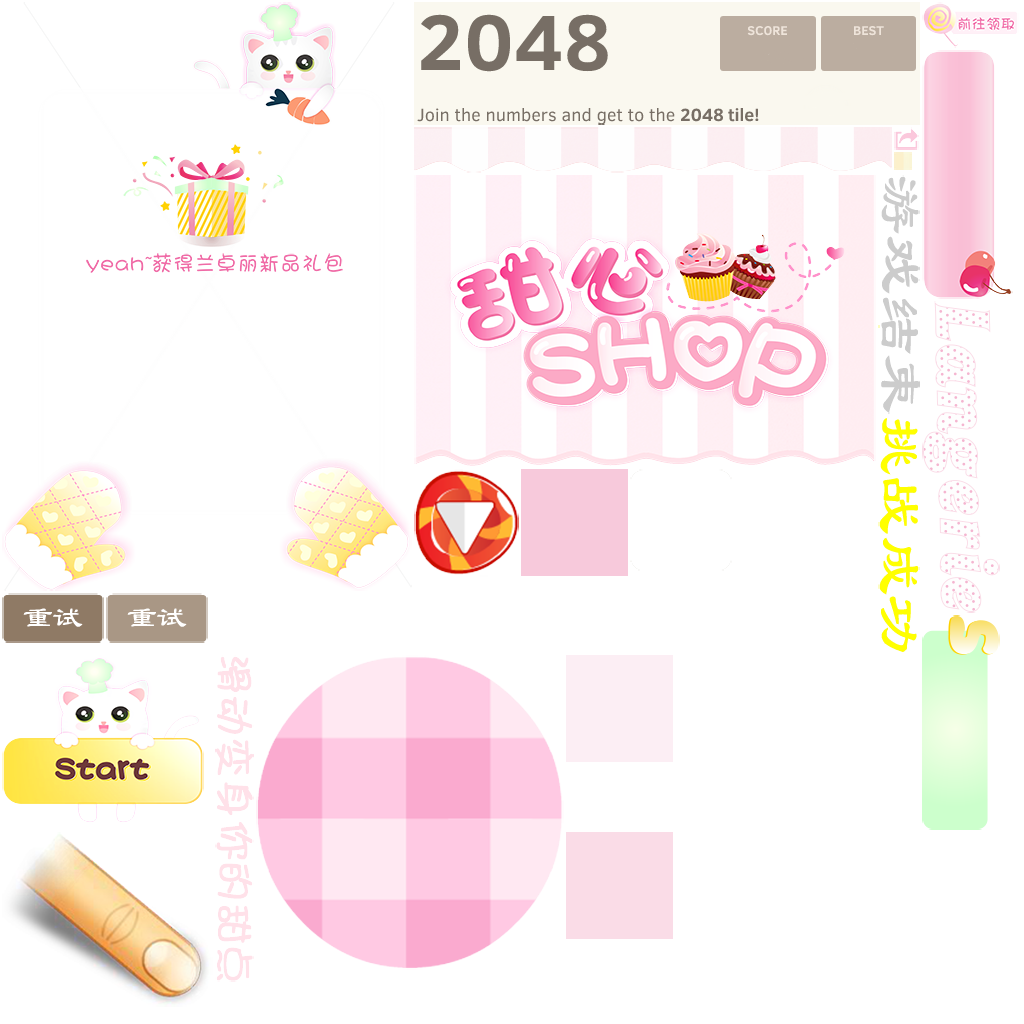
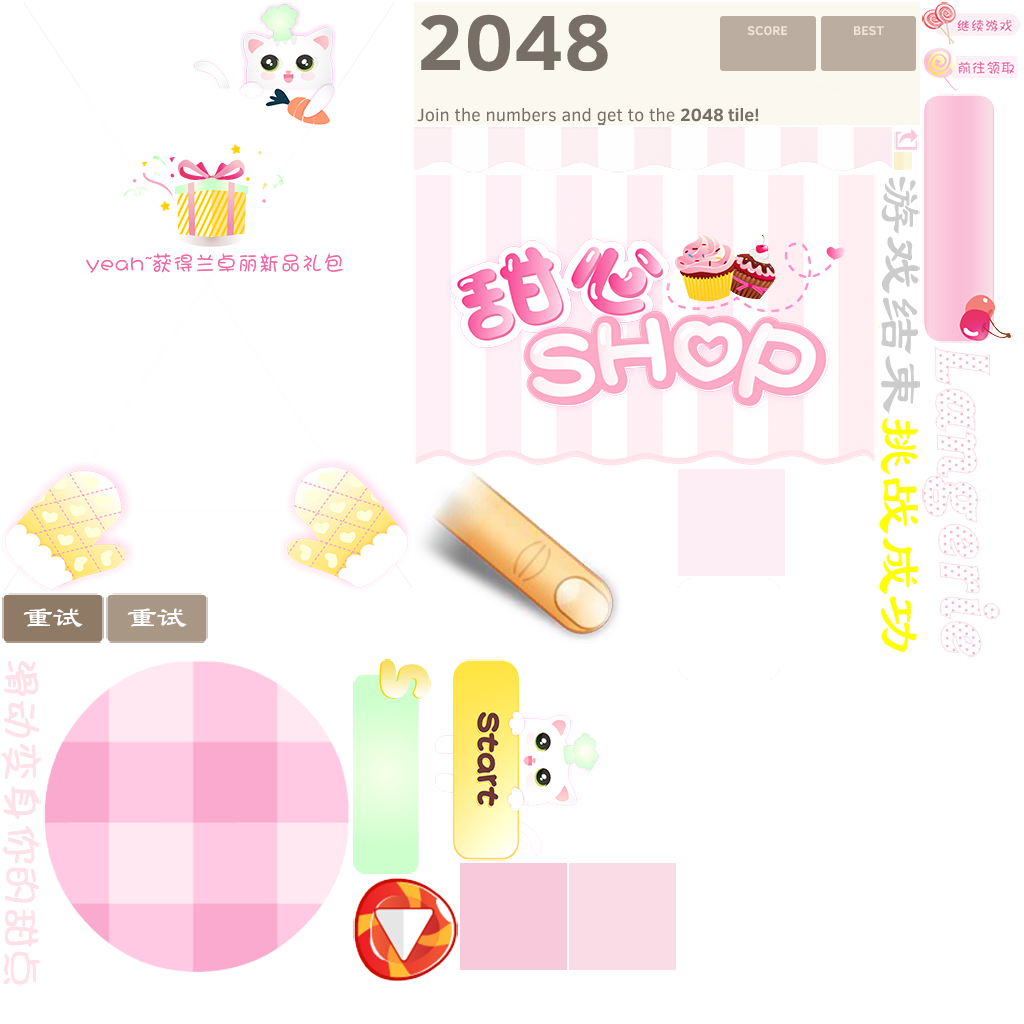
接入微信卡券完成 正式版发布

diff --git a/langerieSweetGame/src/gamePlay/layer/ResultLayer.js b/langerieSweetGame/src/gamePlay/layer/ResultLayer.js
@@ -85,18 +85,30 @@ var ResultLayer = cc.Layer.extend({
             y: scorebg.getPositionY()-scorebg.getContentSize().height/2-btnGetPrize.getContentSize().height/2-40*GC.wscale
         });
 
-        var btnShare = new cc.MenuItemImage("#btn_result_share.png","#btn_result_share.png",this.onShareResult, this);
-        btnShare.attr({
-            x: btnGetPrize.getPositionX()+btnGetPrize.getContentSize().width/2+btnShare.getContentSize().width/2+20,
-            y: btnGetPrize.getPositionY()
-        });
+        var haveReturnGame=GC.currentTargetCardValueIndex<3;
+        if(haveReturnGame) {
+            var btnReturnGame = new cc.MenuItemImage("#btn_return_game.png", "#btn_return_game.png", this.onReturnGame, this);
+            btnReturnGame.attr({
+                x: btnGetPrize.getPositionX() + btnGetPrize.getContentSize().width / 2 + btnReturnGame.getContentSize().width / 2 + 10,
+                y: btnGetPrize.getPositionY() + 3
+            });
+            var menu = cc.Menu.create(btnGetPrize,btnReturnGame);
+        }else{
+            var menu = cc.Menu.create(btnGetPrize);
+        }
 
 
-        var menu = cc.Menu.create(btnGetPrize,btnShare);
+
+        //var btnShare = new cc.MenuItemImage("#btn_result_share.png","#btn_result_share.png",this.onShareResult, this);
+        //btnShare.attr({
+        //    x: btnReturnGame.getPositionX()+btnReturnGame.getContentSize().width/2+btnShare.getContentSize().width/2+20,
+        //    y: btnReturnGame.getPositionY()
+        //});
         menu.attr({
             x:0,y:0
         });
         this.addChild(menu);
+        GC.aa=btnReturnGame;
     },
 
     onStartGame:function (pSender) {
@@ -105,15 +117,32 @@ var ResultLayer = cc.Layer.extend({
         cc.director.runScene(new cc.TransitionFade(1.2, scene));
     },
 
+    onReturnGame:function (pSender) {
+        console.log("onReturnGame");
+        cc.audioEngine.playEffect(res.audio_UI_Click);
+        this.removeFromParent();
+        if(this.gpTouchLayer){
+            this.gpTouchLayer.onReturnGame();
+        }
+    },
+
     onGetPrize:function (pSender) {
         console.log("onGetPrize");
         cc.audioEngine.playEffect(res.audio_UI_Click);
+        if(GC.currentTargetCardValueIndex<=0){
+            alert("未达到获取奖励的条件");
+        }else{
+            location.href="http://weixin.maniform.cn/wei/plt/wengine/index.php?s=/addon/LangerieCard1/LangerieCardPublic/lanSweetGamePrize/id/110/mpid/110/prize/"+(GC.currentTargetCardValueIndex)+'.html';
+        }
     },
 
     onShareResult:function (pSender) {
         console.log("onShareResult");
         cc.audioEngine.playEffect(res.audio_UI_Click);
-        this.removeFromParent();
+    },
+
+    setGPTouchLayer:function(gpTouchLayer){
+        this.gpTouchLayer=gpTouchLayer;
     }
 });
 

diff --git a/langerieSweetGame/src/gamePlay/layer/GPTouchLayer.js b/langerieSweetGame/src/gamePlay/layer/GPTouchLayer.js
@@ -151,6 +151,8 @@ var GPTouchLayer = cc.Layer.extend({
 
     initGame: function () {
 
+        GC.currentTargetCardValueIndex=0;
+
         this.state = GC.GAME_STATE.PLAY;
 
         this.won = false;
@@ -425,8 +427,16 @@ var GPTouchLayer = cc.Layer.extend({
                         score += merged.value;
 
                         // The mighty 2048 tile
-                        if (merged.value === GC.winValue) {
+                        for(var i=0;i<GC.winCardValue.length;i++){
+                            if(GC.winCardValue[i]==merged.value){
+
+                            }
+                        }
+                        if (merged.value === GC.winCardValue[GC.currentTargetCardValueIndex]) {
+                            GC.currentTargetCardValueIndex++;
+                        //if (merged.value === GC.winValue) {
                             self.won = true;
+                            console.log("win game");
                             self.gameOver();
                         }
                     } else {
@@ -444,6 +454,8 @@ var GPTouchLayer = cc.Layer.extend({
             this.addRandomTile();
 
             if (!this.movesAvailable()) {
+                console.log("lose game");
+                self.won=false;
                 this.gameOver();
             }
             if (score > 0) {
@@ -570,6 +582,12 @@ var GPTouchLayer = cc.Layer.extend({
         }
         this.initGame();
     },
+    //继续游戏的回调
+    onReturnGame: function(){
+        if(!this.won){
+            this.retestGame();
+        }
+    },
     gameOver: function () {
         GC.score=this.score;
         this.state = GC.GAME_STATE.PAUSE;
@@ -588,6 +606,7 @@ var GPTouchLayer = cc.Layer.extend({
             //var scene = new ResultScene();
             //cc.director.runScene(new cc.TransitionFade(1.2, scene));
             var resultLayer=new ResultLayer();
+            resultLayer.setGPTouchLayer(this);
             this.addChild(resultLayer);
         }else{
             this.state = GC.GAME_STATE.OVER;

diff --git a/langerieSweetGame/src/config/GameConfig.js b/langerieSweetGame/src/config/GameConfig.js
@@ -25,7 +25,11 @@ GC.score=100;
 //GC.winValue = 2048;
 //GC.winValue = 1024;
 GC.winValue = 16;
-GC.winCardValue=[256,512,1024];
+//卡券奖励目标
+GC.winCardValue=[64,512,1024];
+//GC.winCardValue=[16,32,64];
+//当前卡券奖励目标索引
+GC.currentTargetCardValueIndex=0;
 
 GC.GAME_STATE = {
     PLAY: 1,
